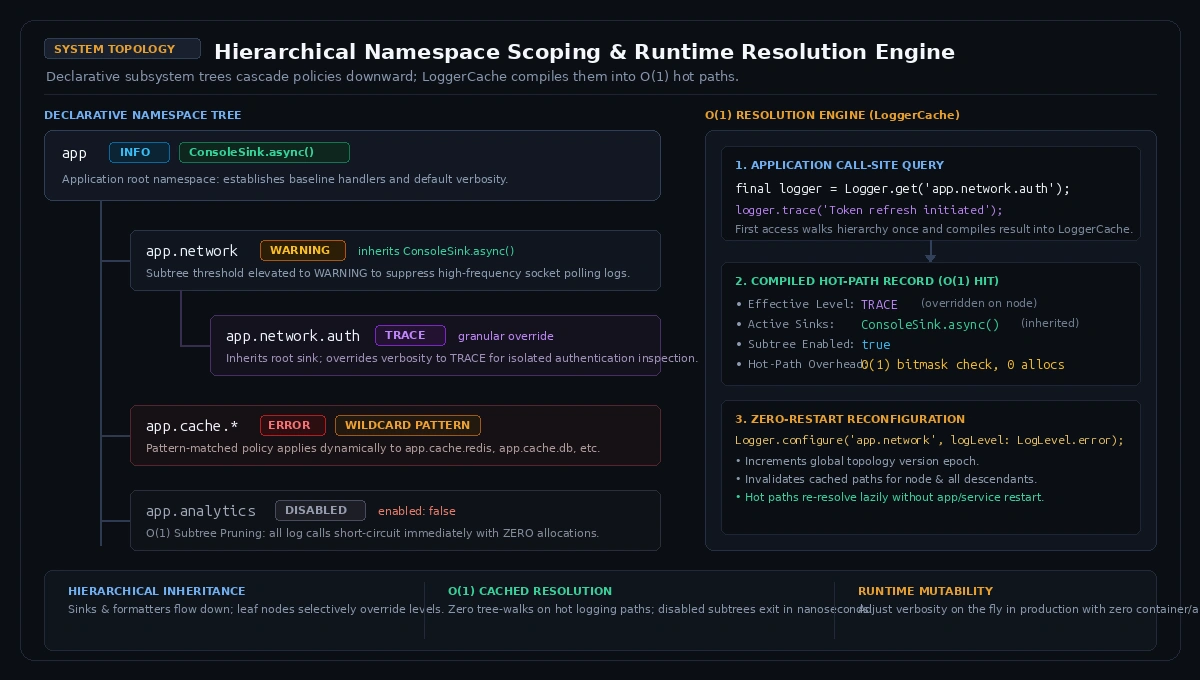
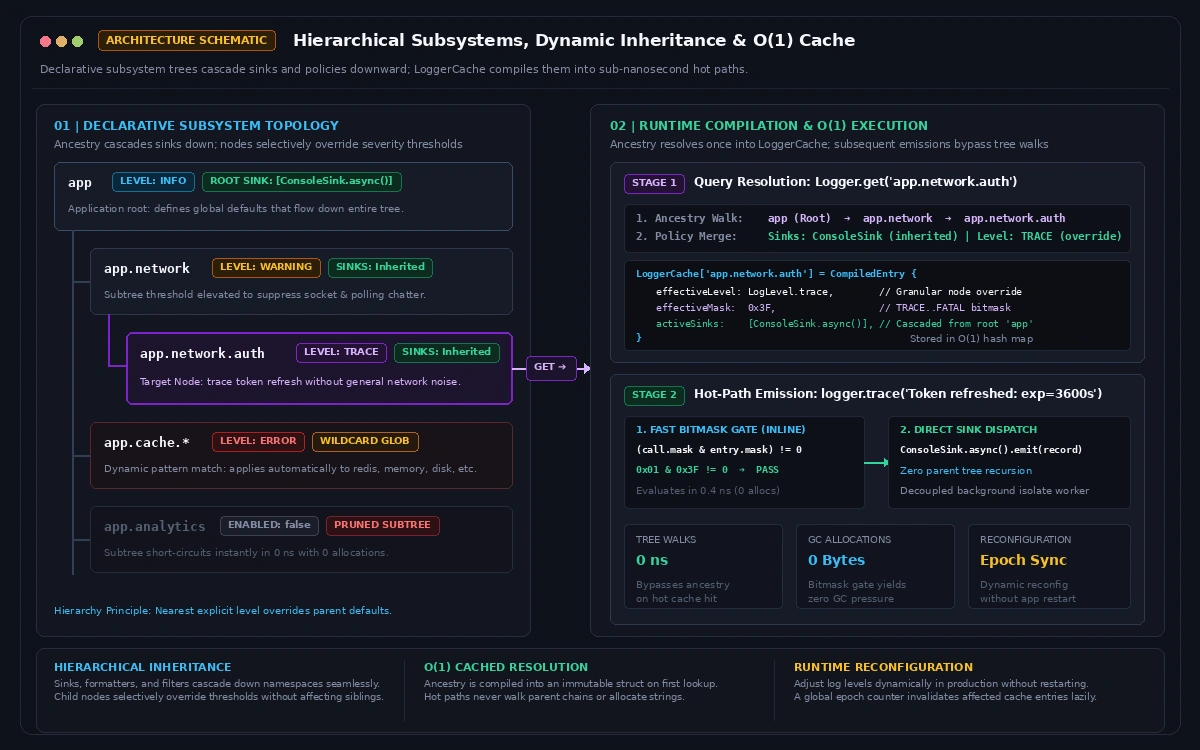
docs(media): update Figure 1 infographic with final spacious layout and title

diff --git a/doc/articles/rethinking_flutter_logging.md b/doc/articles/rethinking_flutter_logging.md
@@ -1,14 +1,14 @@
 ---
-title: "Rethinking Logging in Dart & Flutter: An Architectural Approach to Hierarchies, Context, and Isolate Offloading"
-description: "Exploring design patterns for structured observability, dynamic subsystem control, and background isolate execution in modern Dart applications."
+title: "Rethinking Logging in Dart and Flutter: Designing Observability as an Independent Subsystem"
+description: "Decoupling the observer from the observed: isolating diagnostic workloads, memory churn, and I/O latency from the runtime."
 cover_image: "https://raw.githubusercontent.com/pccria/logd/master/assets/img/logd_hero.webp"
 tags: ["flutter", "dart", "architecture", "opensource"]
 canonical_url: "https://medium.com/@pooriaaskari/rethinking-logging-in-dart-flutter-an-architectural-approach-to-hierarchies-context-and-isolate-offloading"
 ---
 
-# Rethinking Logging in Dart & Flutter: An Architectural Approach to Hierarchies, Context, and Isolate Offloading
+# Rethinking Logging in Dart and Flutter: Designing Observability as an Independent Subsystem
 
-*Exploring design patterns for structured observability, dynamic subsystem control, and background isolate execution in modern Dart applications.*
+*Decoupling the observer from the observed: isolating diagnostic workloads, memory churn, and I/O latency from the runtime.*
 
 ![logd Architecture Hero](https://raw.githubusercontent.com/pccria/logd/master/assets/img/logd_hero.webp)
 
